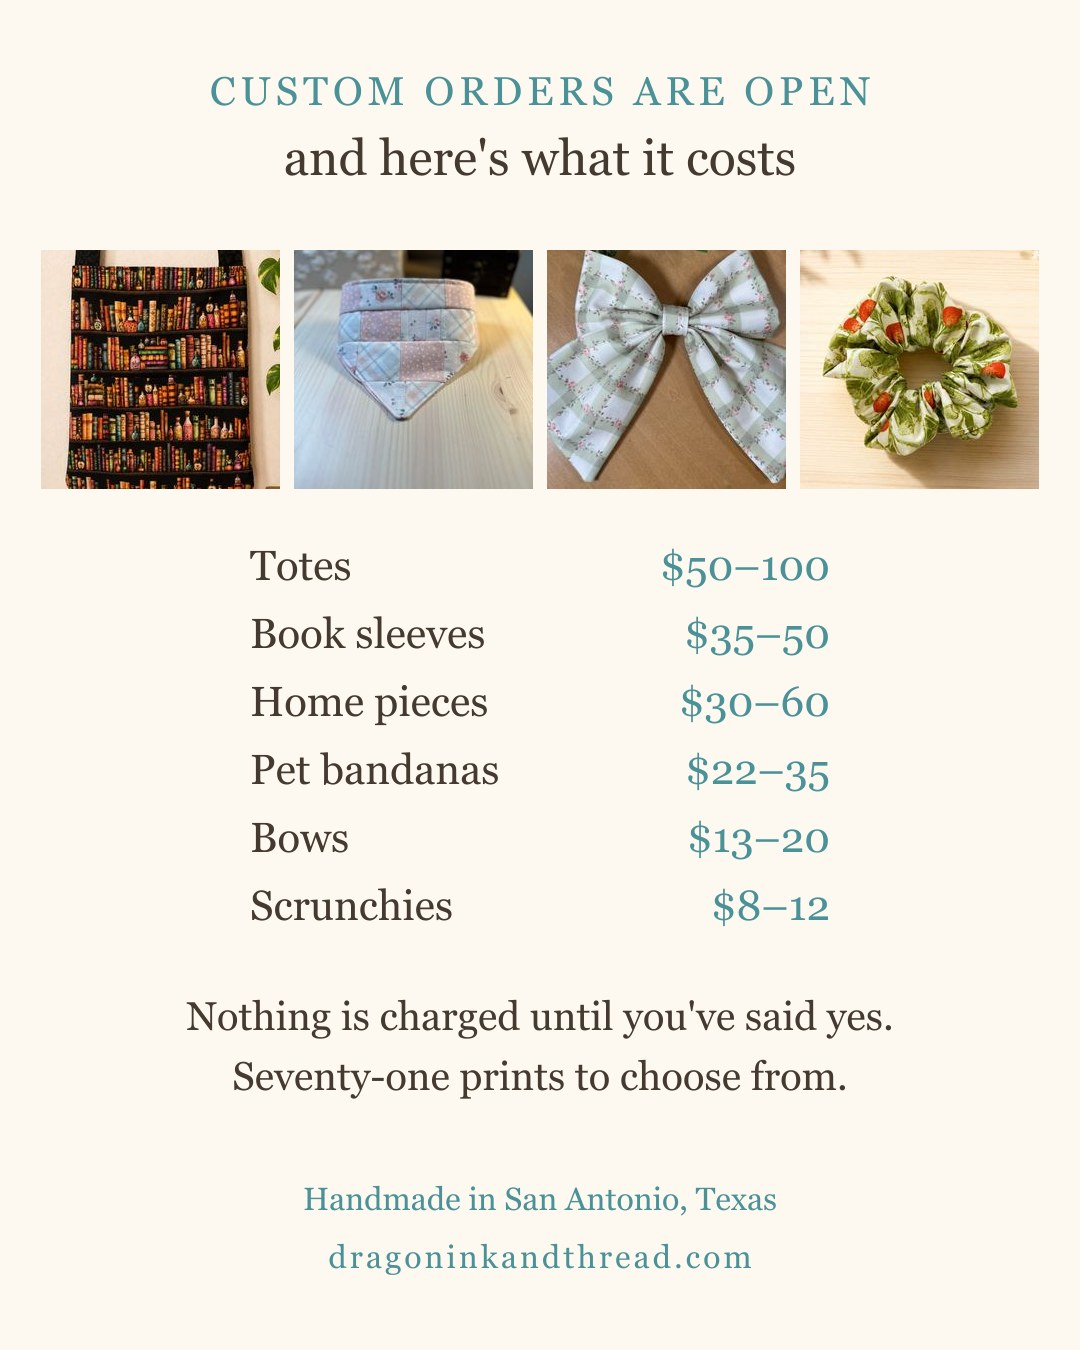
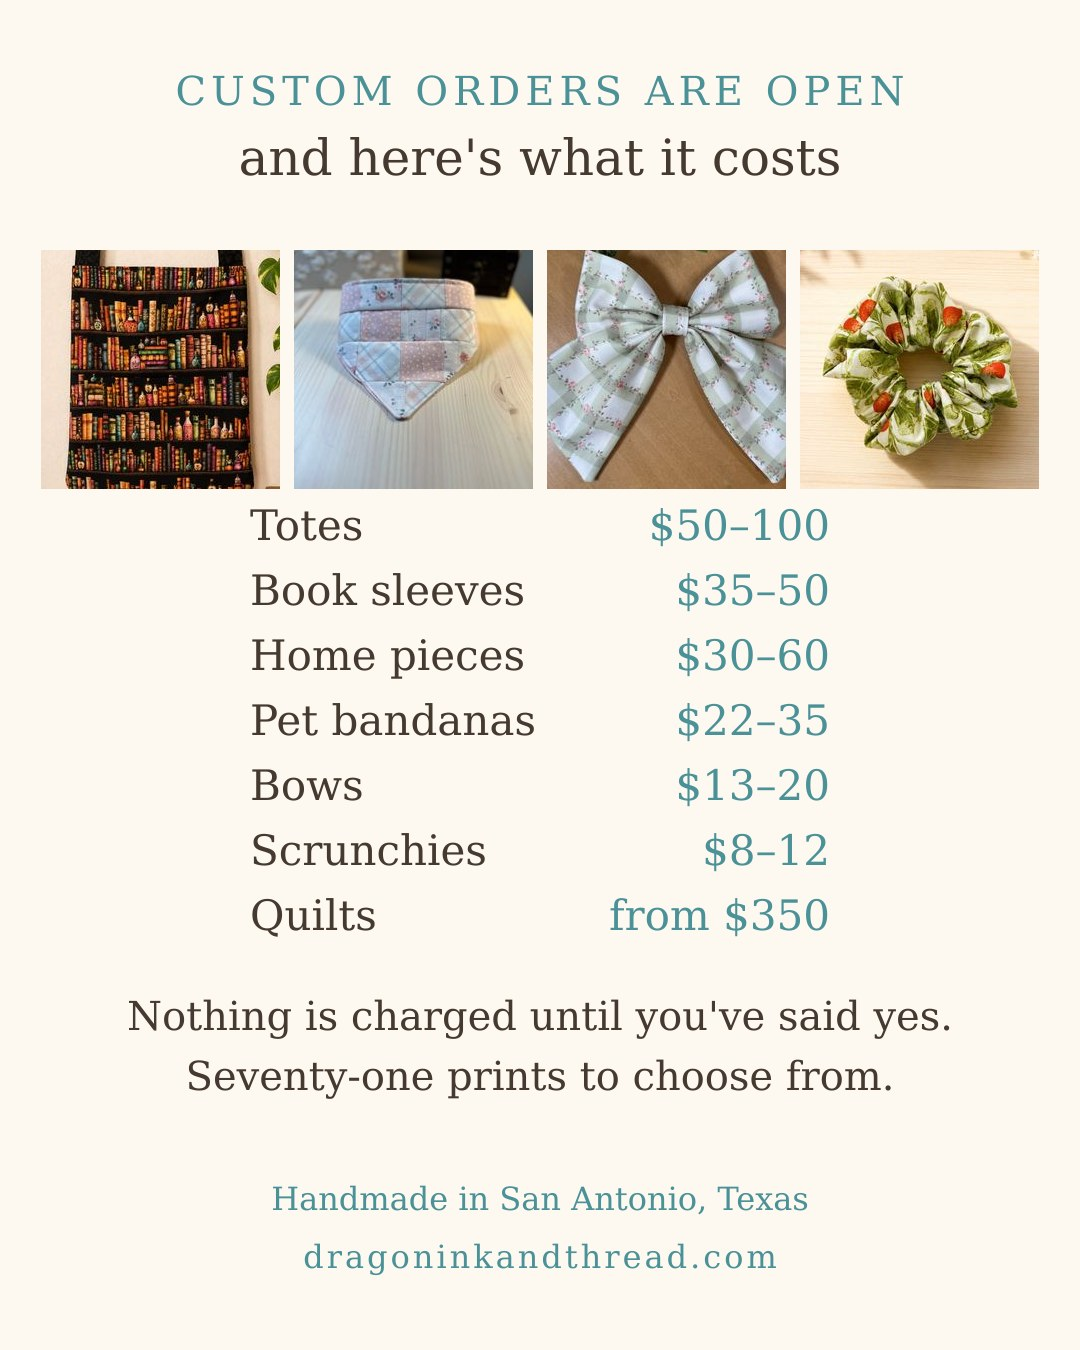
Publish a quilt band across all seven places
Quilts from $350, heirloom quilts pieced from clothing from $650. Floors
with no ceiling, for the reason repairs have none: a crib quilt and a
king are not the same object, so a range would be a promise made before
knowing the size.

The band could not just be dropped into the seven lists. Every other
band is a 10-14 day piece and a quilt is 8-12 weeks, so a price
published beside the existing turnaround line would have been a promise
the shop cannot keep. Every place that pairs a band with "10-14 days"
now names the exception - and a sweep for that turned up two
customer-facing pages the seven-place list does not cover at all, the
homepage FAQ and shipping.html, both of which flatly promised 10-14 days
for all custom work.

Also found while sweeping: the Instagram FAQ answers in the campaign
still quoted bows $10-15 and scrunchies $6-12, stale since the Aug 11
revision. Corrected, and pointed at the canonical list.

The Facebook price image takes a seventh row. The comment there said to
move the start rather than shrink the gap if this ever happened, so the
block starts at 540 with a 65px gap and still clears both the photo row
above and the closing line below. Rendered and checked by eye; the other
five images were byte-different re-encodes of identical content and are
left alone.

Claude-Session: https://claude.ai/code/session_01S8Rgn1kY2aQSXJQiQ3gRqA

diff --git a/custom.html b/custom.html
@@ -199,11 +199,12 @@
              marketing/campaign-2026-08.md. Change ALL FOUR together.
                · Totes $50–100 · Book sleeves $35–50 · Bows $13–20
                · Scrunchies $8–12 · Pet bandanas $22–35 · Home pieces $30–60
+               · Quilts — from $350; heirloom quilts from clothing, from $650
                · Repairs & mending — from $40, quoted after seeing the piece
                · Multi-piece orders are quoted kinder per piece ("buy more, save more") —
                  there is no coded discount, it is applied by hand at quoting time
                · $25 minimum on custom orders
-               · 10–14 days to make, EXCLUDING shipping
+               · 10–14 days to make, EXCLUDING shipping — ⚠ EXCEPT QUILTS, 8–12 weeks
              REVISED 2026-08-11. Three gaps filled by orders that had already
              been taken with no published band: book sleeves (a shop category
              since Aug 7 with no custom price), home pieces (Linda's tea cover,
@@ -216,6 +217,17 @@
              ⚠ Repairs deliberately have NO range: one contained hole is $75,
              three tears and a rotten binding is not, and a published ceiling
              would be a promise made before seeing the damage.
+             ⚠ QUILTS (added 2026-08-12) carry no ceiling for the same reason —
+             a crib quilt and a king are not the same object, and an heirloom
+             pieced from someone's clothes is a different craft again: every
+             piece interfaced, irreversible cutting, and no machine washing
+             afterwards. Floors only. The $650 memory floor is derived in
+             TASKS.md from 35–55 hours; do not let it drift below the general
+             quilt floor, and do not price either off the tote band.
+             ⚠ QUILTS ALSO BREAK THE 10–14 DAYS — they are 8–12 weeks, so the
+             timing paragraph names them explicitly. A published band with an
+             unqualified two-week promise beside it is a broken promise, not a
+             price. If a quilt band ever moves, check the timing copy with it.
              The 10–14 days is make-time from quote acceptance, not from the
              enquiry — worth keeping that distinction in any reply you send.
              ──────────────────────────────────────────────────────────── -->
@@ -232,6 +244,11 @@
               better the price gets — so every one of your babies can match</li>
             <li><strong>Home pieces</strong> — $30 to $60. Tea cosies, appliance covers, mug rugs
               and the like; it depends almost entirely on size</li>
+            <li><strong>Quilts</strong> — from $350, and I'll want to talk about size before I
+              give you a number; a crib quilt and a quilt for a double bed aren't the same object.
+              <strong>Heirloom quilts pieced from someone's clothes start at $650</strong> — a
+              jacket, a favourite shirt, the things nobody can bring themselves to give away.
+              That one is slow, careful work and I'd rather quote it properly than cheaply</li>
             <li><strong>Repairs and mending</strong> — from $40. I'd rather look at the piece
               before I give you a number, because a single worn patch and a quilt that needs
               three seams rebuilt are very different afternoons. Bring it to me and I'll tell you
@@ -245,7 +262,7 @@
           </ul>
           <p>I'll always give you a price before anything begins, and you're free to walk away.</p>
           <p><strong>Minimum:</strong> custom orders start at <strong>$25</strong>. A single scrunchie or bow is happiest as part of a bigger custom order or a set — if you just want one on its own, the <a href="shop.html">ready-made ones in the shop</a> are the same lovely thing for less.</p>
-          <p><strong>Timing:</strong> most custom pieces take <strong>10 to 14 days</strong> to make, counted from the day you accept your quote — <em>plus</em> shipping time on top. Everything is sewn by one person around a small child, so work is booked in the order it comes in. If I can't hit a deadline you need, I'll tell you before you commit rather than after.</p>
+          <p><strong>Timing:</strong> most custom pieces take <strong>10 to 14 days</strong> to make, counted from the day you accept your quote — <em>plus</em> shipping time on top. <strong>Quilts are the exception, at 8 to 12 weeks</strong>, because a quilt is forty-odd hours of work rather than an afternoon. Everything is sewn by one person around a small child, so work is booked in the order it comes in. If I can't hit a deadline you need, I'll tell you before you commit rather than after.</p>
           <p class="custom-terms-fine">Custom pieces are made to your specification, so they can't be returned unless something arrives damaged or wrong. See <a href="shipping.html">Shipping &amp; Returns</a>.</p>
         </div>
       </div>
@@ -257,7 +274,7 @@
         <div class="section-head">
           <p class="eyebrow">The Ask</p>
           <h2>Tell me what you're imagining</h2>
-          <p class="section-sub">As a guide: totes <strong>$50–$100</strong>, book sleeves <strong>$35–$50</strong>, bows <strong>$13–$20</strong>, scrunchies <strong>$8–$12</strong>, pet bandanas <strong>$22–$35</strong>, home pieces like tea cosies <strong>$30–$60</strong>, and repairs and mending <strong>from $40</strong> once I've seen the piece — with the price per piece easing as the order grows. There's a <strong>$25 minimum</strong> and a <strong>10–14 day</strong> make time plus shipping. Nothing is charged until you've seen and accepted a price.</p>
+          <p class="section-sub">As a guide: totes <strong>$50–$100</strong>, book sleeves <strong>$35–$50</strong>, bows <strong>$13–$20</strong>, scrunchies <strong>$8–$12</strong>, pet bandanas <strong>$22–$35</strong>, home pieces like tea cosies <strong>$30–$60</strong>, quilts <strong>from $350</strong> (heirloom quilts pieced from someone's clothes <strong>from $650</strong>), and repairs and mending <strong>from $40</strong> once I've seen the piece — with the price per piece easing as the order grows. There's a <strong>$25 minimum</strong> and a <strong>10–14 day</strong> make time plus shipping, <strong>except quilts, which take 8–12 weeks</strong>. Nothing is charged until you've seen and accepted a price.</p>
         </div>
 
         <!-- Gate notice — filled by js/custom.js before CUSTOM_OPENS. -->

diff --git a/tools/build-pin-images.js b/tools/build-pin-images.js
@@ -234,6 +234,12 @@ async function fbToteLineup() {
    here too. The bow floor is $13 ON PURPOSE — it must stay above the $12
    ready-made bow, or the promise that the shop ones are "the same lovely
    thing for less" stops being true. */
+/* Keep in step with the price list on custom.html — see the maintenance note
+   there for all seven places. Quilts are a FLOOR, not a range (added
+   2026-08-12): a crib quilt and a king are not the same object, so a ceiling
+   would be a promise made before knowing the size. Heirloom-from-clothing sits
+   at $650 and is deliberately left off this image — seven rows is already the
+   most that fits, and the nuance needs a sentence the layout can't give it. */
 const PRICE_BANDS = [
   ["Totes", "$50–100"],
   ["Book sleeves", "$35–50"],
@@ -241,6 +247,7 @@ const PRICE_BANDS = [
   ["Pet bandanas", "$22–35"],
   ["Bows", "$13–20"],
   ["Scrunchies", "$8–12"],
+  ["Quilts", "from $350"],
 ];
 
 async function fbCustomOrders() {
@@ -261,12 +268,17 @@ async function fbCustomOrders() {
   /* Six bands, not four (2026-08-11). Rows were 78px apart starting at 640,
      which put a sixth row at 1030 — straight through the closing line at
      1035. Tightened to 68px from 580 so the block ends at 920 and leaves
-     room. If a seventh band is ever added, move the start up again rather
-     than shrinking the gap further; below ~60px the list stops reading as a
-     list. Repairs are deliberately NOT here — "from $40, quoted after
-     seeing it" is a sentence, not a number, and it belongs on the page. */
+     room. Repairs are deliberately NOT here — "from $40, quoted after
+     seeing it" is a sentence, not a number, and it belongs on the page.
+     SEVENTH band added 2026-08-12 (Quilts), which is the case that comment
+     anticipated: start moved up 580→540 and the gap eased 68→65, so the block
+     runs 540–930 and still clears the closing line at 1030. Both limits are
+     real — the photo row ends at y=489 and these y values are SVG baselines,
+     so a 42px row starting much above ~525 collides with the photos, and the
+     comment's ~60px floor is where the list stops reading as a list. An
+     eighth band does not fit; it would need the photo row to shrink. */
   const bandLines = PRICE_BANDS.flatMap(([label, price], i) => {
-    const y = 580 + i * 68;
+    const y = 540 + i * 65;
     return [
       { text: label, y, x: 250, size: 42, fill: INK, anchor: "start" },
       { text: price, y, x: 830, size: 42, fill: TEAL, anchor: "end" },

diff --git a/index.html b/index.html
@@ -488,7 +488,7 @@
         </details>
         <details class="faq-item">
           <summary>How long until my order ships?</summary>
-          <p>Quickly — everything in the shop is <strong>already sewn and ready to ship</strong>, so orders usually go out within <strong>1–3 business days</strong>. Custom orders are the exception: those are made from scratch for you, and take <strong>10–14 days</strong> from the moment we agree on the details, plus shipping.</p>
+          <p>Quickly — everything in the shop is <strong>already sewn and ready to ship</strong>, so orders usually go out within <strong>1–3 business days</strong>. Custom orders are the exception: those are made from scratch for you, and take <strong>10–14 days</strong> from the moment we agree on the details, plus shipping — except quilts, which take <strong>8–12 weeks</strong>.</p>
         </details>
         <details class="faq-item">
           <summary>How do I care for my pieces?</summary>

diff --git a/shipping.html b/shipping.html
@@ -38,7 +38,7 @@
 
       <h2>Processing Time</h2>
       <p>Everything in the shop is <strong>already sewn and ready to ship</strong> — each piece is one of a kind, finished by hand, and waiting for you. Orders usually go out within <strong>1–3 business days</strong>. During busier seasons this may run a little longer, and I’ll always note any delays at the top of the shop.</p>
-      <p><strong>Custom orders are different.</strong> Those are cut and sewn from scratch for you, and take <strong>10–14 days</strong> from the moment we agree on the details — plus shipping time on top.</p>
+      <p><strong>Custom orders are different.</strong> Those are cut and sewn from scratch for you, and take <strong>10–14 days</strong> from the moment we agree on the details — plus shipping time on top. <strong>Quilts take 8–12 weeks</strong>, because a quilt is forty-odd hours of work rather than an afternoon.</p>
 
       <h2>Shipping</h2>
       <ul>

diff --git a/marketing/campaign-2026-08.md b/marketing/campaign-2026-08.md
@@ -296,9 +296,11 @@ describing a hypothetical one — which is the single biggest thing it can do.
 Lead with the finished work: a photo of one of the custom pieces made this month, and one line
 about what she asked for. Then explain what custom covers (your print, your dimensions, a
 favourite piece recreated), what it costs (totes **$50–100**, book sleeves **$35–50**, home
-pieces **$30–60**, pet bandanas **$22–35**, bows **$13–20**, scrunchies **$8–12**, repairs
+pieces **$30–60**, pet bandanas **$22–35**, bows **$13–20**, scrunchies **$8–12**, quilts
+**from $350** — heirloom quilts pieced from someone's clothes **from $650** — repairs
 **from $40**, **$25 minimum**), and how long it takes (**10–14 days from
-agreeing the details, plus shipping**). One CTA, to `custom.html`.
+agreeing the details, plus shipping** — ⚠ **quilts are 8–12 weeks**, so if a quilt is named in
+this email the timing line has to name it too). One CTA, to `custom.html`.
 
 Worth including: the **71-print fabric library**. "Pick your print" is the single most concrete
 thing about custom orders, and that page already exists.
@@ -386,10 +388,14 @@ channels apart on launch day, tag the links: `?ref=ig` in the bio, `?ref=tt` on 
 `custom.html`, so the honest answer to each is "it's on the page," and the page is the
 link you put in every bio and story:
 
-- *What does custom cost?* → totes **$50–$100**, bows **$10–$15**, scrunchies **$6–$12**.
+- *What does custom cost?* → totes **$50–$100**, bows **$13–$20**, scrunchies **$8–$12**,
+  quilts **from $350**. (⚠ These read $10–15 and $6–12 until 2026-08-12 — stale since the
+  2026-08-11 revision. Answers drift the moment a band moves; the canonical list is the
+  price-bands note in CLAUDE.md.)
 - *Can you copy a piece you've retired?* → yes, never identically ("What people ask for").
 - *How long does it take?* → **10–14 days** to make, from quote acceptance, **plus**
-  shipping. Say "plus shipping" out loud in replies — it's the bit people mishear.
+  shipping — **except quilts, which are 8–12 weeks**. Say "plus shipping" out loud in replies —
+  it's the bit people mishear.
 
 There's also a **$25 minimum** on custom orders, which is the polite way to say "a single
 $6 scrunchie isn't worth a bespoke conversation" — it steers those requests to the shop
@@ -741,9 +747,11 @@ same small audience with less news.*
 
 > Nobody asks what custom costs, so I'll just tell you.
 >
-> **Totes $50–100 · Book sleeves $35–50 · Home pieces $30–60 · Pet bandanas $22–35 · Bows $13–20 · Scrunchies $8–12**
+> **Totes $50–100 · Book sleeves $35–50 · Home pieces $30–60 · Pet bandanas $22–35 · Bows $13–20 · Scrunchies $8–12 · Quilts from $350**
 >
 > **And repairs and mending, from $40** — bring me the quilt with the worn patch and I'll tell you honestly what it needs.
+>
+> **Quilts take 8 to 12 weeks**, not the two weeks everything else takes — and if you want one pieced from someone's clothes, a jacket or a favourite shirt, that starts at $650 and it's the slowest, most careful thing I do.
 >
 > That's the whole range. A tote sized to the exact book you carry, in a print you chose yourself, sits about where a decent shop bag does — except one person made it, and there's only ever going to be one.
 >

diff --git a/emails/custom-orders-enquiry.md b/emails/custom-orders-enquiry.md
@@ -42,7 +42,8 @@ to walk away at any point up to it. Only once it's paid do I start cutting.
 leaves my table.
 
 **What it usually costs:** totes $50–100, book sleeves $35–50, home pieces like tea cosies
-$30–60, pet bandanas $22–35, bows $13–20, scrunchies $8–12 — and repairs and mending from $40,
+$30–60, pet bandanas $22–35, bows $13–20, scrunchies $8–12, quilts from $350 — heirloom quilts
+pieced from someone's clothes start at $650 — and repairs and mending from $40,
 once I've seen the piece. It depends on size, lining and how much fabric it takes. Matching sets are quoted together and
 usually come out kinder than the pieces separately — and with bandanas, the more of them there
 are, the better the price gets, so every one of your babies can match. Custom orders start
@@ -55,9 +56,10 @@ quote those on their own, because the price depends so much on the piece. The wo
 is that it isn't my craft.
 
 **How long it takes:** most pieces take 10–14 days to make, counted from the day you accept
-the quote — **plus** shipping time on top. Everything is sewn by one person around a small
-child, so work is booked in the order it arrives. If I can't hit a date you need, I'll tell
-you before you commit, not after.
+the quote — **plus** shipping time on top. **Quilts are the exception, at 8–12 weeks**, because
+a quilt is forty-odd hours rather than an afternoon. Everything is sewn by one person around a
+small child, so work is booked in the order it arrives. If I can't hit a date you need, I'll
+tell you before you commit, not after.
 
 One honest note: because a custom piece is made to your specification, it can't be returned
 unless it arrives damaged or wrong. That's why I send the photo first.
@@ -117,8 +119,9 @@ road, say when you'll have a price rather than letting it go quiet.
 Long emails don't work in a DM. Use this, then send the full email if they bite.
 
 > Yes! Custom is your print, your size — totes usually $50–100, book sleeves $35–50, pet
-> bandanas $22–35, bows and scrunchies less, $25 minimum. I mend things too, from $40. Takes
-> 10–14 days once we've agreed the details, plus shipping.
+> bandanas $22–35, bows and scrunchies less, $25 minimum. I mend things too, from $40, and I
+> make quilts from $350. Takes 10–14 days once we've agreed the details, plus shipping —
+> quilts are longer, 8–12 weeks.
 >
 > And it doesn't have to be a tote — I've made Kindle cases, pouches, a wheelchair tote. If
 > it's sewn from fabric, ask.

diff --git a/CLAUDE.md b/CLAUDE.md
@@ -106,7 +106,8 @@ please allow 5–10 business days" everywhere; that was untrue and actively cost
 week-and-a-half wait on a bag that's already on the shelf is a reason to hesitate. It now says
 **"Sewn and ready to ship"**, with **1–3 business days** to post (FAQ + shipping.html).
 - **"Made to order" now means CUSTOM orders only** — those genuinely are cut from scratch,
-  **10–14 days** from agreeing the details, plus shipping. Keep the two clearly separate.
+  **10–14 days** from agreeing the details, plus shipping (**quilts excepted: 8–12 weeks**, see
+  the price-bands note). Keep the two clearly separate.
 - **Consequence: every shop piece is returnable** (14 days, unused). Only custom orders are
   final sale — the old "made-to-order items are final sale" clause no longer covers anything.
 - **Scrunchies keep `maxQty: 3` because she stocks MULTIPLES of each print** (confirmed
@@ -364,7 +365,15 @@ week-and-a-half wait on a bag that's already on the shelf is a reason to hesitat
   `custom-price-list` and the one-line summary above the form; change both together):**
   **REVISED 2026-08-11 — and they live in SEVEN places, not two.** Totes **$50–100** ·
   Book sleeves **$35–50** · Home pieces **$30–60** · Pet bandanas **$22–35** · Bows **$13–20** ·
-  Scrunchies **$8–12** · **Repairs & mending from $40, no ceiling.**
+  Scrunchies **$8–12** · **Quilts from $350, heirloom quilts from clothing from $650** ·
+  **Repairs & mending from $40, no ceiling.**
+  ⚠ **QUILTS BREAK THE TURNAROUND (added 2026-08-12).** Every other band is a 10–14 day piece;
+  a quilt is **8–12 weeks**. So the quilt band could not just be dropped into the seven lists —
+  **every place that pairs a band with "10–14 days" also had to name the exception**, or the page
+  publishes a price beside a promise it can't keep. That's custom.html (list + summary + the
+  Timing paragraph), `emails/custom-orders-enquiry.md` (the costs line, the "How long it takes"
+  paragraph, AND the DM quick reply), and both marketing files. **If a band with an unusual
+  turnaround is ever added again, the timing copy is part of the change, not a follow-up.**
   The seven: `custom.html` (×2), `PRICE_BANDS` in tools/build-pin-images.js, §13 and §8 of
   `marketing/campaign-2026-08.md`, `marketing/fabric-collections-2026-08.md`, and — the one most
   easily missed and the one customers actually read — `emails/custom-orders-enquiry.md` (×2).

diff --git a/marketing/fabric-collections-2026-08.md b/marketing/fabric-collections-2026-08.md
@@ -316,8 +316,10 @@ Worth more than the posts, and takes minutes.
   five bows listed twice; see TASKS.md. A post is exactly what makes that race start.
 - **Don't quote a custom price in a caption** beyond the bands already public on custom.html
   (totes $50–100 · book sleeves $35–50 · home pieces $30–60 · pet bandanas $22–35 · bows $13–20
-  · scrunchies $8–12 · repairs from $40, $25 minimum). Quoting
-  is done per piece, by you, in a reply.
+  · scrunchies $8–12 · quilts from $350, heirloom quilts from clothing from $650 · repairs from
+  $40, $25 minimum). Quoting is done per piece, by you, in a reply.
+  ⚠ **If a caption mentions quilts, it must say 8–12 weeks** — every other band on this list is
+  a 10–14 day piece, so the turnaround line that's safe everywhere else is wrong for that one.
 - **Don't name the characters in Once Upon a Woodland.** Describe them — "a tiger who bounces,"
   "a gloomy little donkey." Sewing with licensed fabric you bought is ordinary and fine; using
   the character names in your own marketing reads as a claim you're associated with the brand
